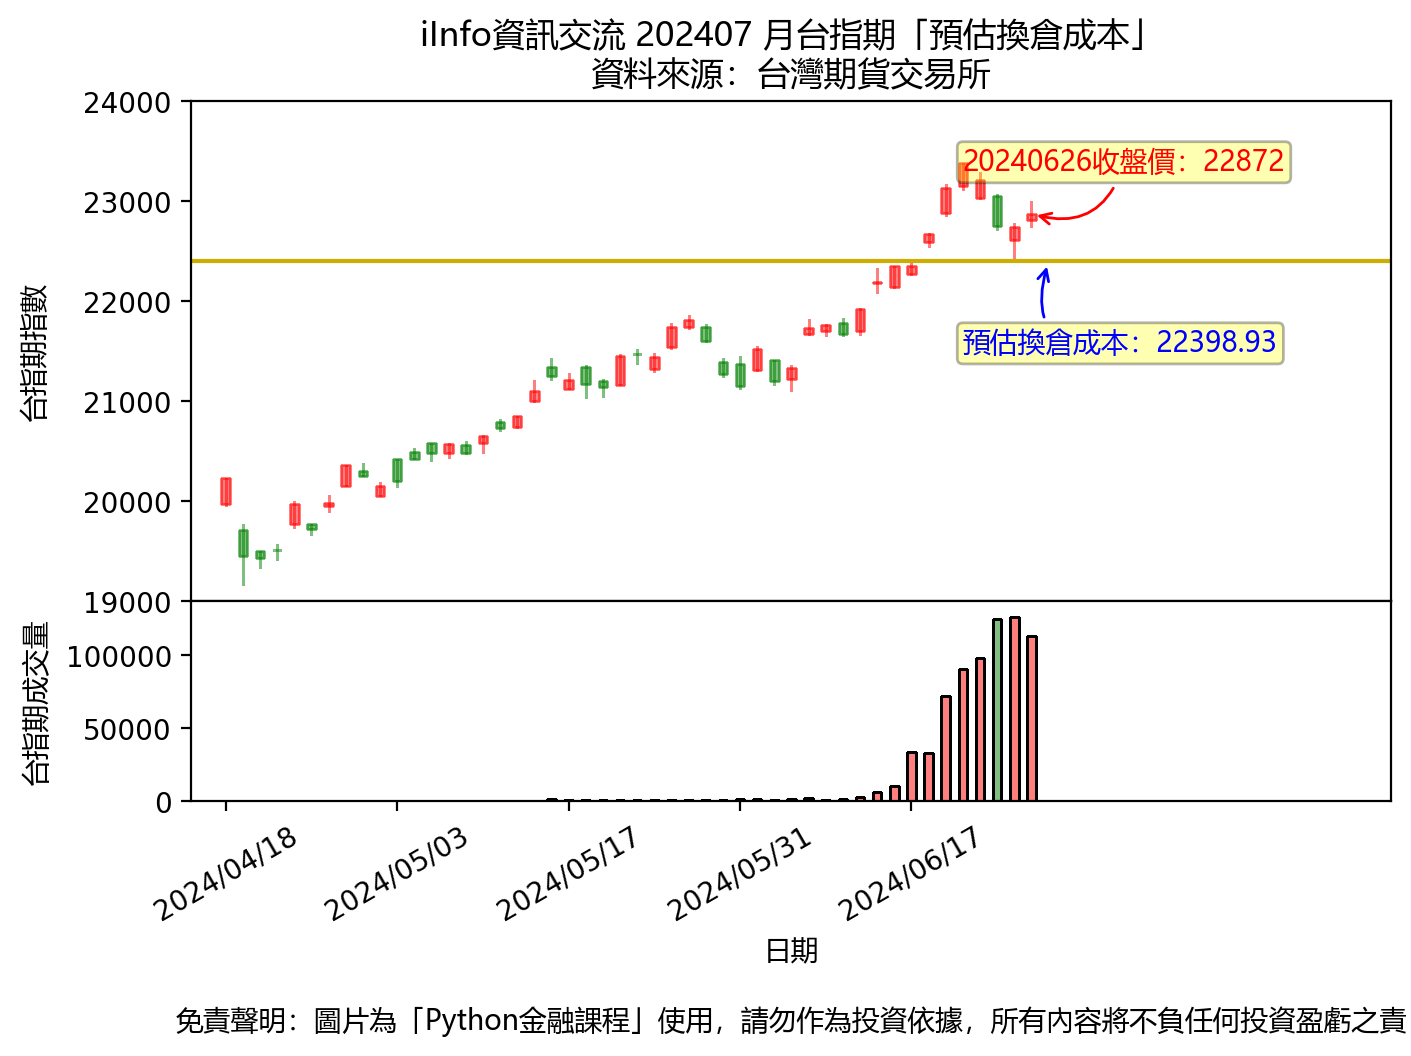
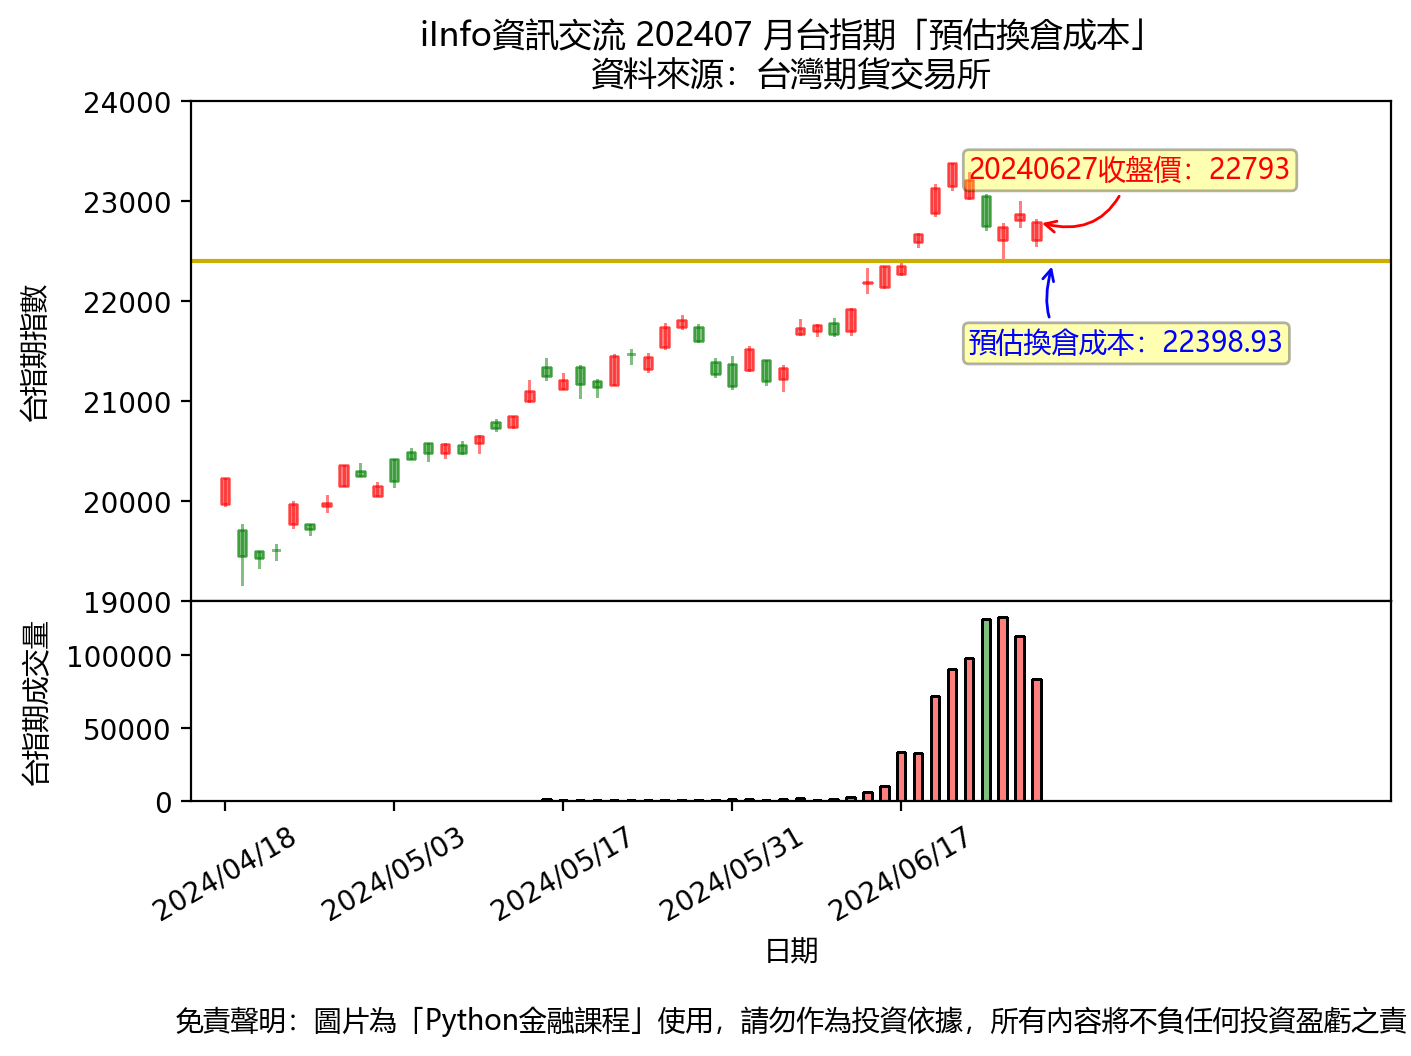
更新時間: Thu Jun 27 16:36:25 CST 2024

diff --git a/README.md b/README.md
@@ -1,9 +1,9 @@
-## 20240626 台指期「預估換倉成本」
+## 20240627 台指期「預估換倉成本」
 ![](txfcost.png)
 
-## 20240626 台指期「散戶小台多空比」
+## 20240627 台指期「散戶小台多空比」
 ![](bbiri.png)
 
-## 20240626 台指選擇權「Put/Call Ratios」
+## 20240627 台指選擇權「Put/Call Ratios」
 ![](pcratio.png)
 
